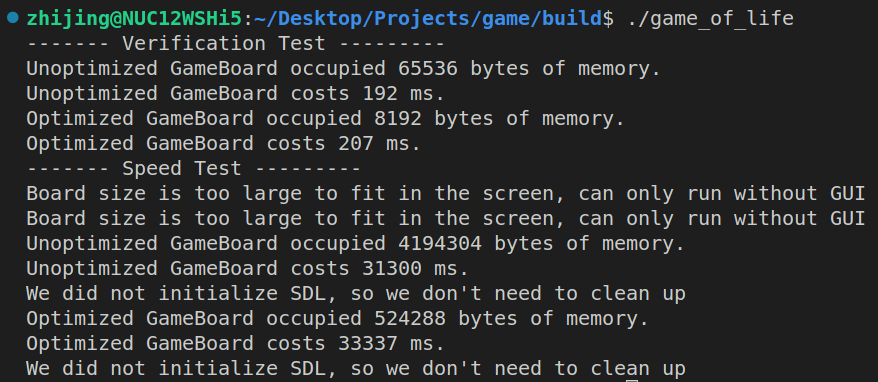
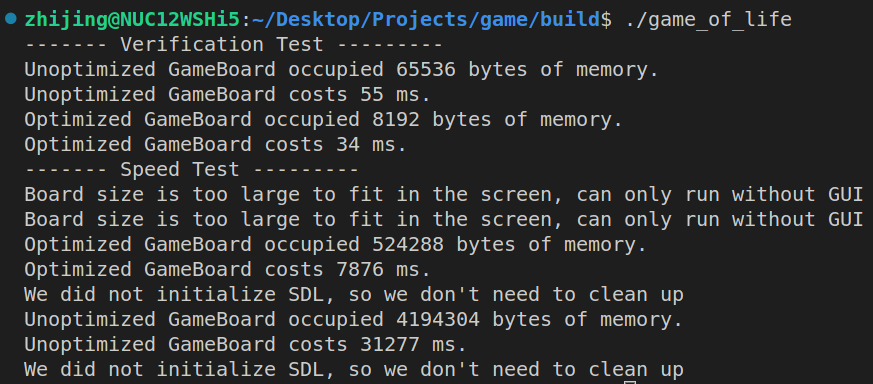
Multi-threading optmization completed.

diff --git a/test/test_game_board.cc b/test/test_game_board.cc
@@ -20,6 +20,11 @@ void test_game_board(int x_size, int y_size, int rounds) {
 }
 
 int main() {
-  test_game_board(256, 256, 1000);
-  std::cout << "Test passed." << std::endl;
+  std::cout << "*** Verification Test: 256x256 board, run 100 rounds"
+            << std::endl;
+  test_game_board(256, 256, 100);
+  std::cout << "=== PASS: Verification Test" << std::endl;
+  std::cout << "*** Speed Test: 2048x2048 board, run 1000 rounds" << std::endl;
+  test_game_board(2048, 2048, 1000);
+  std::cout << "=== PASS: Speed Test" << std::endl;
 }

diff --git a/src/main.cc b/src/main.cc
@@ -95,7 +95,8 @@ void test(int x_size, int y_size, int rounds) {
   if (c_pid == 0) {
     // child process
     {
-      AbstractGameBoard* game_board = new OptimizedGameBoard(x_size, y_size);
+      AbstractGameBoard* game_board =
+          new FullyOptimizedGameBoard(x_size, y_size);
       Game game(game_board, god_functions, true, 0, rounds);
       game_board->read_state_from(vec);
       game.run();

diff --git a/README.md b/README.md
@@ -61,4 +61,4 @@ You can plug in more god functions in `src/main.cc`, by `push_back` self-defined
 2. The screenshot of the speed test.
    ![](figs/speed.png)
 
-I did not make optimizations to the time complexity. I considered about using parallel algorithms, but the compacted memory makes multi-threading no longer fast.
+I used multi-threading to speed up the computation. Specifically, I divided the board by rows, and each thread computes `num_rows / num_threads` rows. Since I compute and store the next state to a new board, there is no need to take locks, and I can fully enjoy the parallelism.
